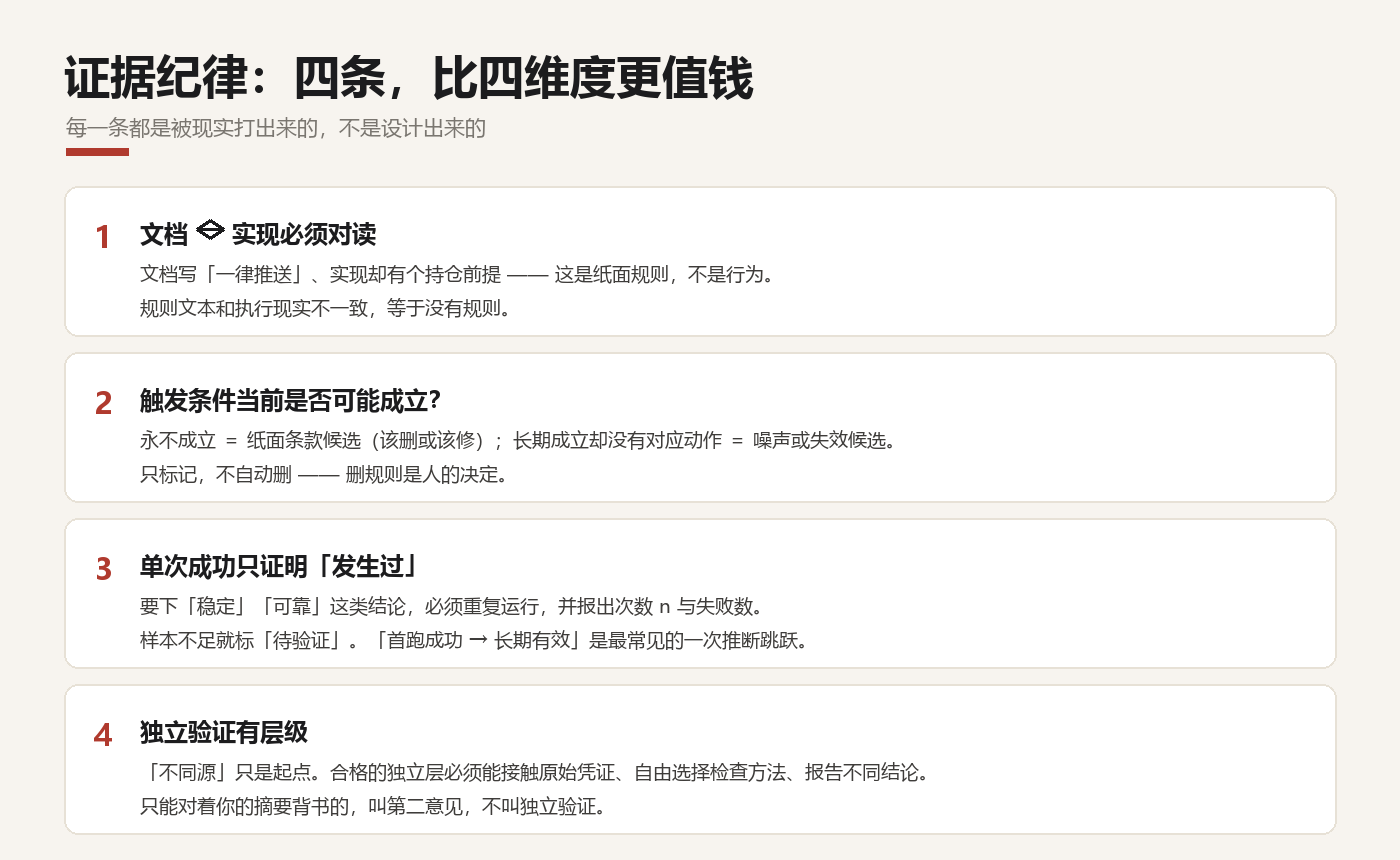
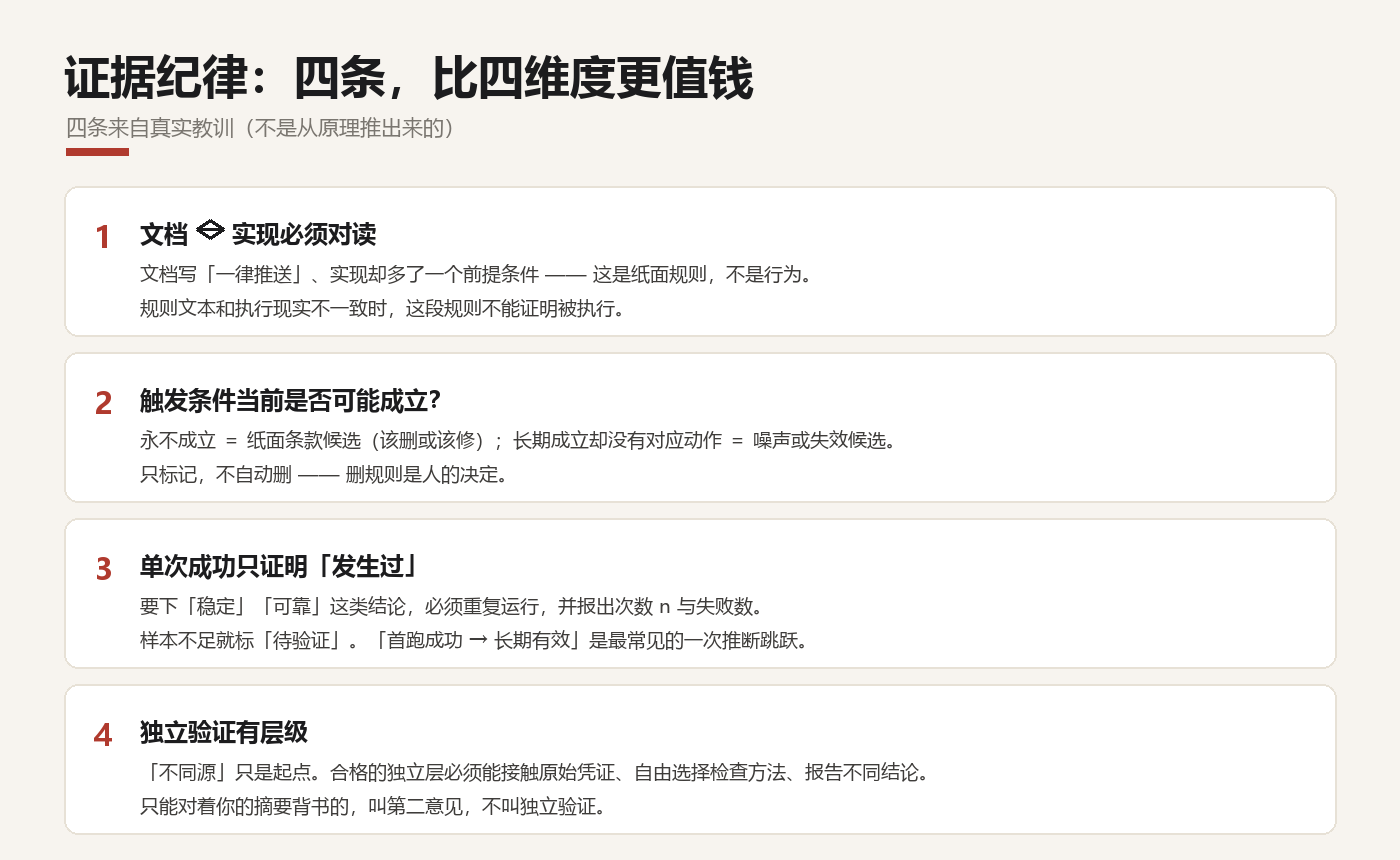
v1.13.1 补齐：human 长文开头改为适用情境/最小示例/可跳过情境、证据图持仓案例中性化与两处过度概括收窄、hero 与 SKILL 头部口径对齐

Changed region(s): [[0.2764, 0.3023, 0.5836, 0.393], [0.0307, 0.1209, 0.3379, 0.1814]]

diff --git a/scripts/gen_images.py b/scripts/gen_images.py
@@ -155,7 +155,7 @@ def gen_hero(out):
     d.text((72, 214), "Enrichment & Energy-Saving Review Framework", font=font(24), fill=SUB)
     d.text(
         (72, 262),
-        "不是给答案，是让答案有证据。",
+        "不是给答案，是帮你把依据和未知分开。",
         font=font(34, True),
         fill=RED,
     )
@@ -273,14 +273,14 @@ def gen_evidence(out):
     W, H = 1400, 860
     im = Image.new("RGB", (W, H), BG)
     d = ImageDraw.Draw(im)
-    header(d, "证据纪律：四条，比四维度更值钱", "每一条都是被现实打出来的，不是设计出来的")
+    header(d, "证据纪律：四条，比四维度更值钱", "四条来自真实教训（不是从原理推出来的）")
 
     items = [
         (
             "文档 ↔ 实现必须对读",
             [
-                "文档写「一律推送」、实现却有个持仓前提 —— 这是纸面规则，不是行为。",
-                "规则文本和执行现实不一致，等于没有规则。",
+                "文档写「一律推送」、实现却多了一个前提条件 —— 这是纸面规则，不是行为。",
+                "规则文本和执行现实不一致时，这段规则不能证明被执行。",
             ],
         ),
         (

diff --git a/skill/SKILL.md b/skill/SKILL.md
@@ -7,7 +7,7 @@ description: >
 
 # 丰容/节能项目评审框架
 
-> v1.13（2026-10-30 第五轮复盘，作者拍板「同意你的倾向」）：补强机制证据链与独立性、分开重评与记账、区分单次成功与可靠性、净节能对照既有做法。逐条处置见评审记录台账第五轮；上一版 = v1.12，溯源见 `references/HISTORY.md`。业界无成熟现成框架，本框架为原创组合，需在使用中迭代。
+> v1.13（2026-10-30 第五轮复盘，作者拍板「同意你的倾向」）：补强机制证据链与独立性、分开重评与记账、区分单次成功与可靠性、净节能对照既有做法。逐条处置见评审记录台账第五轮；上一版 = v1.12，溯源见 `references/HISTORY.md`。本框架是在既有材料之上做的组合与改造（相关领域已有先例，未找到同一完整组合但不等于首创），需在使用中迭代。
 > 修订历史已外置（2026-10-20 分层；本文件只留操作核心）——什么时候读 → 见文末「references 索引表」。归位判据见「分层与归位规则」。
 > 框架内容单一事实源 = 本文件；评审日志 = `REVIEW_LOG.md`（skill 目录只放定义，运行数据放项目归属地）。
 > 记账位：每次评审写入上述 评审记录台账（项目名/日期/四维度结论/框架体感反馈）；有条件过的条件挂 `TRACKING.md（待办追踪）` 追踪；框架复盘触发由机械闸扫描（口径见第 9 步）；偏差来源=作者评审后的体感反馈；回流到=本文件的框架维度与问法。

diff --git a/human/为什么需要这套框架.md b/human/为什么需要这套框架.md
@@ -7,6 +7,24 @@
 
 ## 一、先说它解决什么问题
 
+**先看适不适合你（三条，30 秒）**：
+
+| | |
+|---|---|
+| **适合** | 你手上有一个"到底要不要做"的项目、工具或习惯，事后说不清为什么；或你已经在用 AI，但不知道它是在帮你还是在给你派活。 |
+| **不适合** | 你要的是"该不该做"的**结论**——这套东西不给结论，它给的是一段能被复核的**过程**。 |
+| **可跳过** | 只想用现成清单 ⇒ 直接看文末「怎么用」；只想读故事 ⇒ 从第二节开始；完全不想读 ⇒ 关掉，这东西本来就该被跳过。 |
+
+**一个最小示例**（三十秒读完）：
+
+> 要做一个"每天早上给我推摘要"的机器人。你觉得它省事。
+> 框架会问你：**产出落到你面前是什么形态？**（一条结论 / 一份清单 / 一批待办 / 一本持续追踪的账 / 静态文档）
+> 如果是"一批待办"——那它不是省事，是把活推给了你。结论：**改成触发式查询**。
+>
+> 就这一步，它已经替你避免了两个烂尾项目里的同一种死法。
+
+---
+
 "这个项目该不该做？"——这个问题几乎每个人都会问，也几乎每个人都答错。
 
 错的答案通常长成两种：
